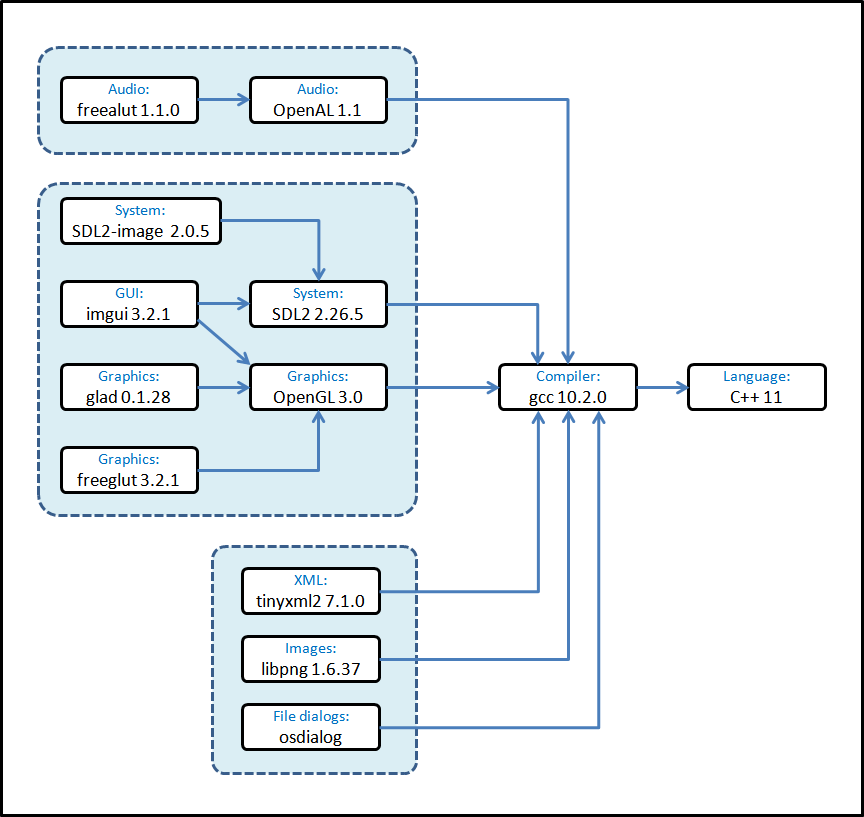
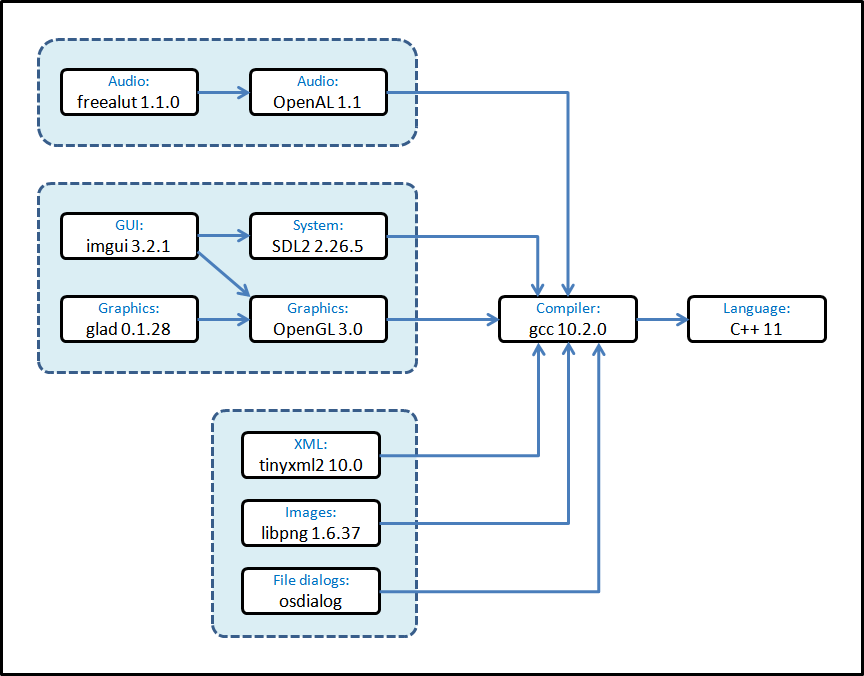
Update info on emulator dependencies

diff --git a/Readme.md b/Readme.md
@@ -51,16 +51,13 @@ To correctly build the software in this repository you will need to have at leas
 
 ##### General purpose libraries:
 * SDL2
-* TinyXML2
 
 ##### Video libraries:
-* SDL2_image
 * OpenGL
-* GLUT (only for older versions)
 * LibPNG
 
 ##### Audio libraries:
 * OpenAL
 * ALUT / FreeALUT
 
-These programs also use 3 other libraries that are already included in the sources as external libraries: osdialog, imgui and glad.
+These programs also use 4 other libraries that are already included in the sources as external libraries: tinyxml2, osdialog, imgui and glad.
